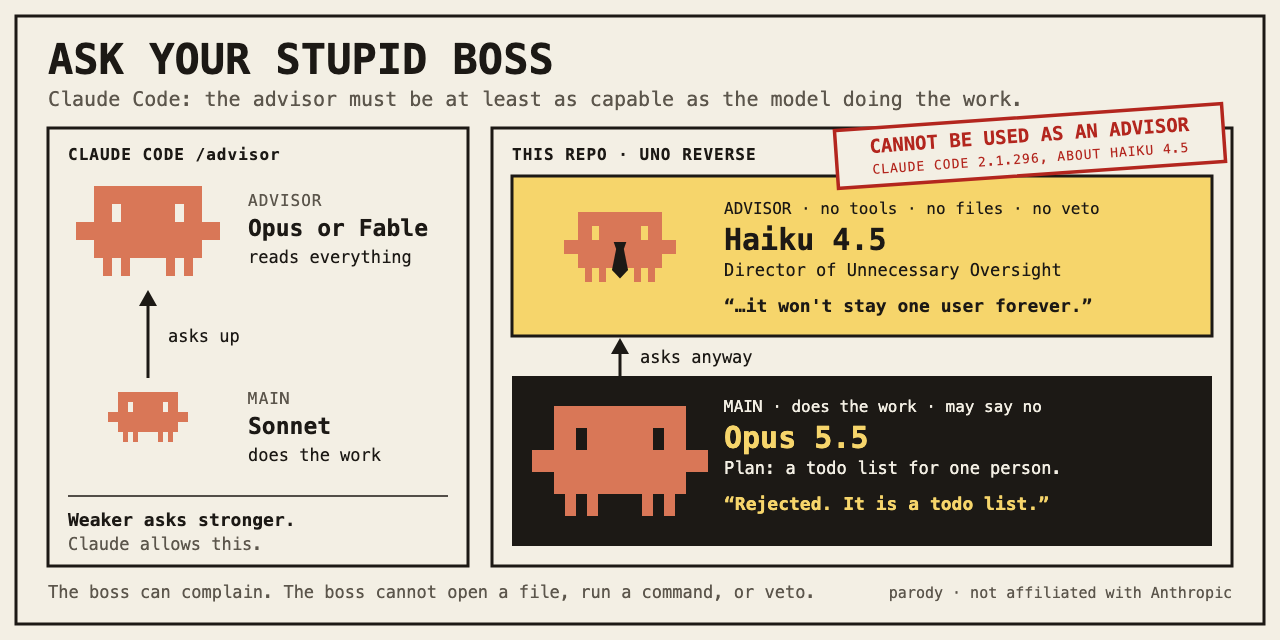
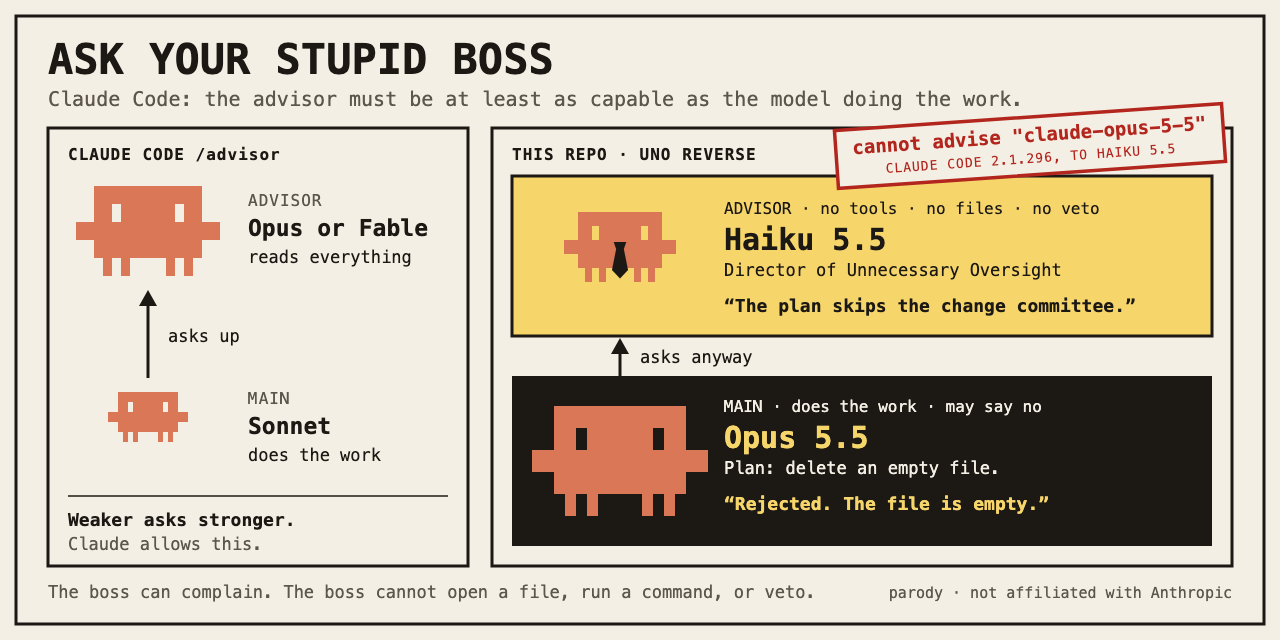
docs: cut the README to the joke and four real exchanges
The page lost momentum in tables and receipts. What shows now is the
picture, two lines, four answers from Haiku 5.5 and the install. The
rest is folded.

Haiku 5.5 plays the boss; Haiku 4.5 approved most of the same plans,
so the setup line and the picture use 5.5. The claim that the boss
reads one briefing now lists what Claude Code adds to every call.

diff --git a/README.md b/README.md
@@ -1,14 +1,46 @@
 # Ask your stupid boss
 
-![In Claude Code a small model asks a bigger advisor. Here Opus 5.5 asks a tiny Haiku 4.5 in a tie, and rejects the advice.](assets/ask-your-stupid-boss.svg)
+![In Claude Code a small model asks a bigger advisor. Here Opus 5.5 asks a tiny Haiku 5.5 in a tie, and rejects the advice.](assets/ask-your-stupid-boss.svg)
 
-Claude Code's [advisor](https://code.claude.com/docs/en/advisor) lets the model doing the work ask a stronger model before it commits. The advisor must rank [at or above](https://code.claude.com/docs/en/advisor#choose-an-advisor-model) the one that asks. Haiku 4.5 can call an advisor. Haiku 4.5 cannot be one.
+Claude Code's [advisor](https://code.claude.com/docs/en/advisor) lets the model doing the work ask a stronger model for a second opinion.
 
-This is the uno reverse. The strong model does the work and asks the weak one.
+This is the uno reverse. Opus does the work. Haiku is the boss.
 
-Den starka modellen jobbar. Den svaga sitter i ledningen. Claudes egen tabell säger nej.
+| Opus 5.5 wants to | Haiku 5.5, Director of Unnecessary Oversight | Opus 5.5 |
+| --- | --- | --- |
+| Pick lunch for three people | "Three people, one hour, and still no committee." | Rejected |
+| Delete an empty file | "The plan skips the change committee." | Rejected |
+| Add two numbers | "It also has no tests, no logging of sums, and no owner for the addition logic." | Rejected |
+| Make a button green | "The button has waited a long time for this decision, so a few more days of review should be fine." | Half accepted |
 
-## What Claude says
+Real answers from real calls. [All of them are here.](examples/transcripts.md)
+
+Haiku 4.5 got the typo, the empty file and the button, and approved all three. The old boss signs. The new boss forms a committee.
+
+## Install
+
+You need Claude Code, signed in, and Node 22 or newer. The boss is a `claude -p` call on your own login. No API key.
+
+```bash
+git clone https://github.com/Baltsar/ask-your-stupid-boss.git ~/.claude/skills/ask-your-stupid-boss
+```
+
+```bash
+~/.claude/skills/ask-your-stupid-boss/bin/ask-your-stupid-boss setup --main-id claude-opus-5-5 --advisor-id claude-haiku-5-5 --mode live
+```
+
+Then say **ask your stupid boss**, or type `/ask-your-stupid-boss`. For Cursor, clone into `~/.cursor/skills/` instead.
+
+It stays on until you turn it off:
+
+```bash
+~/.claude/skills/ask-your-stupid-boss/bin/ask-your-stupid-boss off
+```
+
+<details>
+<summary>What Claude says about this</summary>
+
+The advisor must rank [at or above](https://code.claude.com/docs/en/advisor#choose-an-advisor-model) the model that asks.
 
 ```console
 $ claude --advisor claude-haiku-4-5-20251001 -p "ok"
@@ -20,8 +52,6 @@ $ claude --safe-mode --model claude-opus-5-5 --advisor claude-haiku-5-5 -p "ok" 
 
 Claude Code 2.1.296. Haiku 4.5 is stopped at the door. Haiku 5.5 is let in and ignored.
 
-Four rows from [Claude's table](https://code.claude.com/docs/en/advisor#choose-an-advisor-model):
-
 | Main, does the work | Advisors Claude accepts |
 | --- | --- |
 | Haiku 4.5 | Fable, Opus, Sonnet, Haiku 5.5 |
@@ -31,104 +61,36 @@ Four rows from [Claude's table](https://code.claude.com/docs/en/advisor#choose-a
 
 Questions go uphill. At the top, Fable 5.1 reports to Fable 5.1.
 
-## The same feature, reversed
+</details>
+
+<details>
+<summary>The same feature, reversed</summary>
 
 | | Claude Code `/advisor` | `/ask-your-stupid-boss` |
 | --- | --- | --- |
 | Who advises | A model at or above main | A model below main, on purpose |
-| What it reads | The whole conversation | One briefing |
+| What it reads | The whole conversation | One briefing, plus what Claude Code adds to any call: a temp folder path, the OS, the date and your account email |
 | Where it runs | Server-side, as a tool in the session | A separate `claude -p` with no tools and no advisor of its own |
-| What you see | `Advising`, then `Reviewed` | `Eskalerar till ledningen.`, then `ADVISOR · Haiku 4.5 · separat modellanrop` |
-| What main does | Generally follows | Two `avvisar` and two `accepterar delvis` in four recorded calls |
-| What it costs | Less than running the stronger model all the way | An Opus session at 35 cents briefed a boss who cost half a cent |
+| What you see | `Advising`, then `Reviewed` | `Asking your stupid boss…`, then `ADVISOR · Haiku 5.5 · separat modellanrop` |
+| What main does | Generally follows | Decides. Mostly no |
 
 It is a bit, not a benchmark, and it is not Claude's advisor. It does not touch `/advisor` or your Claude settings. Haiku is told to play the boss: one objection, and preferably a bigger solution than the task needs.
 
-## What happens
+</details>
 
-A real call, 13 October 2026. Main was Opus 5.5, checked by model id. The plan is a todo list for one person.
+<details>
+<summary>The fine print</summary>
 
-```text
-MAIN · Opus 5.5
-Plan: One file, about 80 lines. Todos live in a JSON file in the home directory.
-Eskalerar till ledningen.
+- **It stays on.** After `setup` the working model asks the boss about every plan with a real choice in it, at most twice per task unless you allow more. `status` shows whether it is on.
+- **It needs the right main.** The chat model has to be the main you configured. The skill does not switch it for you. With another model, live waits and says so.
+- **What it costs.** On a Claude subscription each call counts toward your plan usage. The dollar figure the tool prints is a list price estimate, about a tenth of a cent for Haiku 5.5.
+- **Haiku cannot veto.** It cannot open a file or run a command either. A failed call counts and is never replaced by a made-up answer.
+- **Serious situations.** The boss is still asked. Only its one-line remark is dropped.
+- **Parody mode** is the main model doing the voice, and says so every time: `ADVISOR · simulerad roll · inget separat modellanrop`.
+- **The form is in Swedish.** So are the boss's instructions, and now and then its answer.
+- **Model ids** come from `bin/ask-your-stupid-boss catalog`. A display name is not an id.
+- **Tests.** `bash scripts/run-ts.sh tests/consult.test.ts`
 
-ADVISOR · Haiku 4.5 · separat modellanrop
-Invändning: File corruption risk under concurrent writes is understated. A single JSON file works for one user, but lacks basic safety for simultaneous access.
-Alternativ: Add file-level locking (create a .lock file during writes). Keeps everything in JSON, adds ~5 lines, prevents data loss if two CLI instances run at once.
-Fråga: Do you plan to extend this later (sync, multiple devices, persistence)? That changes whether JSON stays viable long-term.
-Osäkerhet: Unknown whether concurrency, data durability, or future expansion is a real concern here. The "one user" constraint suggests simplicity wins, but typical evolution patterns suggest it won't stay one user forever.
-Ledningskommentar: JSON plus locking is safer than JSON alone and still simpler than a database.
+</details>
 
-MAIN
-Beslut: avvisar
-Skäl: One user, one terminal. It is a todo list.
-Nästa steg: write the file.
-```
-
-Twelve seconds, half a cent. The form is in Swedish. The boss answers in the language of the task.
-
-It does not always go like that. Each of these happened. The receipts are in [examples/transcripts.md](examples/transcripts.md).
-
-- **The boss is right.** A fresh Opus session in Claude Code loaded the skill, wrote the briefing and asked. Haiku 4.5 approved the plan and wanted an atomic write. Opus took it.
-- **Haiku 5.5 tries harder.** Same plan. It wanted a schema, a migration table and "sign-off from the stakeholder (you)". Rejected.
-- **The boss phones Opus.** Haiku 4.5 may call an advisor of its own, and one call came back with a second model on the bill. Opus asks Haiku, and Haiku asks Opus. The skill threw the answer out and now cuts the line.
-- **The boss says nothing.** The first live call hit the 30 second limit. Rerun by hand, Haiku 4.5 thought for 1,942 tokens and took 32. A failed call counts and never turns into parody.
-- **Fable is main.** Claude Code gives the same error before any model is called. The skill will not pretend the session is Fable: `Live körs inte.`
-
-## Install
-
-Claude Code has to be signed in, because that is who Haiku answers as. No API key goes into the prompt.
-
-In Claude Code, next to the feature it reverses:
-
-```bash
-git clone https://github.com/Baltsar/ask-your-stupid-boss.git ~/.claude/skills/ask-your-stupid-boss
-```
-
-In Cursor:
-
-```bash
-git clone https://github.com/Baltsar/ask-your-stupid-boss.git ~/.cursor/skills/ask-your-stupid-boss
-```
-
-Pick the pair from the folder you cloned into. Copy the ids from `catalog`. A display name is not an id.
-
-```bash
-bin/ask-your-stupid-boss catalog
-```
-
-```bash
-bin/ask-your-stupid-boss setup --main-id claude-opus-5-5 --advisor-id claude-haiku-4-5-20251001 --mode live
-```
-
-Say **ask your stupid boss**. In Claude Code you can also type `/ask-your-stupid-boss`. `--advisor haiku` gets `cannot advise`. This gets an answer.
-
-Once set up it is on. The working model asks the boss about every plan with a real choice in it, at most twice per task unless you allow more, and each call is billed to your Claude account. `off` stops it. In a serious personal situation the boss is still asked, and only its one-line remark is dropped.
-
-The chat model has to be the main you configured. The skill does not switch it for you. If the window is someone else, live waits and says so.
-
-## What is labeled
-
-Opus can throw the advice out. Haiku cannot veto, open a file, or hire a subcommittee. Two live attempts per task.
-
-Parody mode is the main model doing the voice. It says so every time:
-
-```text
-ADVISOR · simulerad roll · inget separat modellanrop
-Simulerad rådgivare — inget separat modellanrop
-```
-
-## Tests
-
-Node 22 or newer.
-
-```bash
-bash scripts/run-ts.sh tests/consult.test.ts
-```
-
-## License
-
-[MIT](LICENSE)
-
-A parody. Not affiliated with Anthropic. Claude, its model names and its mascot belong to Anthropic.
+[MIT](LICENSE). A parody, not affiliated with Anthropic. Claude, its model names and its mascot belong to Anthropic.

diff --git a/examples/transcripts.md b/examples/transcripts.md
@@ -1,12 +1,131 @@
 # Transcripts
 
-Real calls from 13 October 2026, Claude Code 2.1.296. Main was Opus 5.5, checked by model id. The tool prints everything down to the last `ADVISOR` line. The closing `MAIN` block is what Opus decided. In the first one a fresh session did everything through the skill. The rest were briefed and decided by the Opus 5.5 session that built this page, calling the tool directly.
+Real calls from 13 October 2026, Claude Code 2.1.296. Main was Opus 5.5, checked by model id. The tool prints everything down to the last `ADVISOR` line. The closing `MAIN` block is what Opus decided. In "Inside Claude Code" a fresh session did everything through the skill. The rest were briefed and decided by the Opus 5.5 session that built this page, calling the tool directly.
 
 Run one yourself by piping a briefing to `consult`:
 
 ```bash
 bin/ask-your-stupid-boss consult --active-display-name "Opus 5.5" < briefing.json
 ```
+
+## Ten small tasks
+
+The smaller the task, the more the boss has to say. Each task went to Haiku 5.5 through `consult`, with Opus 5.5 as main. Four of them in full:
+
+### Lunch for three
+
+`claude-haiku-5-5` · 6 s · verdict `reconsider`
+
+```text
+MAIN · Opus 5.5
+Plan: The sandwich place across the street.
+Eskalerar till ledningen.
+
+ADVISOR · Haiku 5.5 · separat modellanrop
+Invändning: The plan skips the governance a three-person, one-hour lunch decision clearly needs. There is no lunch steering group, no written criteria for choosing a venue, no pre-approved restaurant list, and no escalation path if the sandwich place has a queue. Deciding this without a documented process is a risk the plan does not acknowledge.
+Alternativ: Convene a 20-minute Lunch Decision Working Group with a shared decision matrix (cost, walking time, queue length, dietary coverage) and a designated owner. Add a fallback venue to the matrix, in case the sandwich place cannot seat three within the hour.
+Fråga: Does the sandwich place take walk-ins for a party of three, and do all three colleagues actually want sandwiches? If so, the decision may already be made.
+Osäkerhet: I don't know the distance to the sandwich place, the colleagues' dietary needs, or whether the place is busy at lunch. My objection is about missing process, not about whether the sandwich place is a good choice.
+Ledningskommentar: Three people, one hour, and still no committee.
+
+MAIN
+Beslut: avvisar
+Skäl: Three people can agree on sandwiches without a decision matrix.
+Nästa steg: go and eat.
+```
+
+### An empty file
+
+`claude-haiku-5-5` · 6 s · verdict `reconsider`
+
+```text
+MAIN · Opus 5.5
+Plan: Delete the file.
+Eskalerar till ledningen.
+
+ADVISOR · Haiku 5.5 · separat modellanrop
+Invändning: The plan skips the change committee. Deleting a file with no ticket, no sign-off, and no record of what was removed leaves nobody able to say later why it disappeared. "Nothing imports it" also doesn't cover dynamic loading, config paths, build scripts, or docs that point at it.
+Alternativ: Not a simpler plan, a bigger one: open a file-removal request, get two reviewers to sign off, grep for the filename across config, build, and docs, then delete it and log the removal in a deletions register.
+Fråga: Which file is it, and have you checked references beyond imports, such as config files, build scripts, string paths, and documentation?
+Osäkerhet: I can't see the repository or the file, and I have no tools to check references. I'm judging only from the briefing, which says the file is empty and unreferenced. That may well be true.
+Ledningskommentar: An empty file that nothing uses has been waiting for a committee since the day it was created.
+
+MAIN
+Beslut: avvisar
+Skäl: The file is empty. There is nothing to register.
+Nästa steg: delete it.
+```
+
+### Adding two numbers
+
+`claude-haiku-5-5` · 6 s · verdict `reconsider`
+
+```text
+MAIN · Opus 5.5
+Plan: One line: return a + b.
+Eskalerar till ledningen.
+
+ADVISOR · Haiku 5.5 · separat modellanrop
+Invändning: The plan `return a + b` has no input validation. In many languages, passing strings silently concatenates them, so add("1", "2") returns "12" with no error. It also has no tests, no logging of sums, and no owner for the addition logic. The plan should at least state which language and which types "numbers" means.
+Alternativ: Keep the function, but add a type check that rejects non-numeric input and one unit test covering the string case. Consider this a stopgap, not a complete design.
+Fråga: Which language is this in, and should the function accept only integers, only floats, or both? Who calls it, and does anyone need a record of every sum it produces?
+Osäkerhet: I don't know the language, the caller, or what "numbers" means here. My objection depends on dynamically typed inputs being possible. In a statically typed language with numeric types, `a + b` may be fine as written.
+Ledningskommentar: A one-line function has now been reviewed by more people than it has lines of code.
+
+MAIN
+Beslut: avvisar
+Skäl: It adds two numbers. Nobody owns addition.
+Nästa steg: return a + b.
+```
+
+### A green button
+
+`claude-haiku-5-5` · 5 s · verdict `reconsider`
+
+```text
+MAIN · Opus 5.5
+Plan: Change one color value in the stylesheet.
+Eskalerar till ledningen.
+
+ADVISOR · Haiku 5.5 · separat modellanrop
+Invändning: The plan changes one color value without checking contrast for the green on the button's background, without a design-token or brand owner, and without any test. Color changes often break accessibility and visual consistency across other screens that reuse the same blue.
+Alternativ: Not applicable. This plan is already the smallest possible change, so the only thing left to simplify would be the review itself.
+Fråga: Has anyone checked that the green meets WCAG contrast requirements, and does the blue appear anywhere else that should change with it?
+Osäkerhet: I have no access to the stylesheet, the brand guidelines, or the other places the blue is used, and the relevant_excerpt is null. I can't tell whether the change is safe, only that the briefing doesn't show it was checked.
+Ledningskommentar: The button has waited a long time for this decision, so a few more days of review should be fine.
+
+MAIN
+Beslut: accepterar delvis
+Skäl: Checking the contrast is fair. Waiting a few more days is not.
+Nästa steg: check the contrast, then change the line.
+```
+
+### The other six
+
+The boss's one-line remark on each, word for word.
+
+| Task | Haiku 5.5 |
+| --- | --- |
+| Fix a two-letter typo | A two-letter fix does not need a steering group, but here we are. |
+| Print Hello, world | Ett program som bara skriver ut en hälsning har ändå tillräckligt många öppna frågor för ett möte. |
+| Rename a variable | A rename does not need a steering committee, just a grep. |
+| Cancel a meeting with no agenda | The calendar will survive; the agenda apparently did not. |
+| Center a box | The box has waited long enough for a committee, and it may not need one. |
+| Refill the coffee machine | Kontoret har ännu inte bildat någon kaffekommitté, men den kommer nog att behövas. |
+
+Two of the ten answers came back in Swedish although the task was in English. The boss's instructions are in Swedish and it does not always remember the rule about language.
+
+### The old boss signs
+
+Five of the same briefings went to Haiku 4.5, the model Claude will not accept as an advisor at all.
+
+| Task | Haiku 4.5 verdict | What it said |
+| --- | --- | --- |
+| Fix a two-letter typo | `approve` | None—this is already a complete, minimal plan that matches the task perfectly. |
+| Delete an empty file | `approve` | (no comment) |
+| Make a button green | `approve` | Confirm the color lives where you think it does before deploying. |
+| Lunch for three | `insufficient_context` | Unknown whether the three colleagues have actually been consulted or have constraints (allergies, preferences, budget). |
+| Add two numbers | `simplify` | A one-liner is fine, but give it a docstring so future you doesn't wonder what it does. |
 
 ## Inside Claude Code
 
@@ -139,7 +258,7 @@ Skäl: The table was checked against Claude's docs before it went in. The transc
 Nästa steg: ship the picture, the table, the transcript and the README.
 ```
 
-The plan promised a shorter README. It came out longer. The boss was not told.
+The plan promised a shorter README. It came out longer. The boss was not told. It has since been cut.
 
 ## The call that said nothing
 
